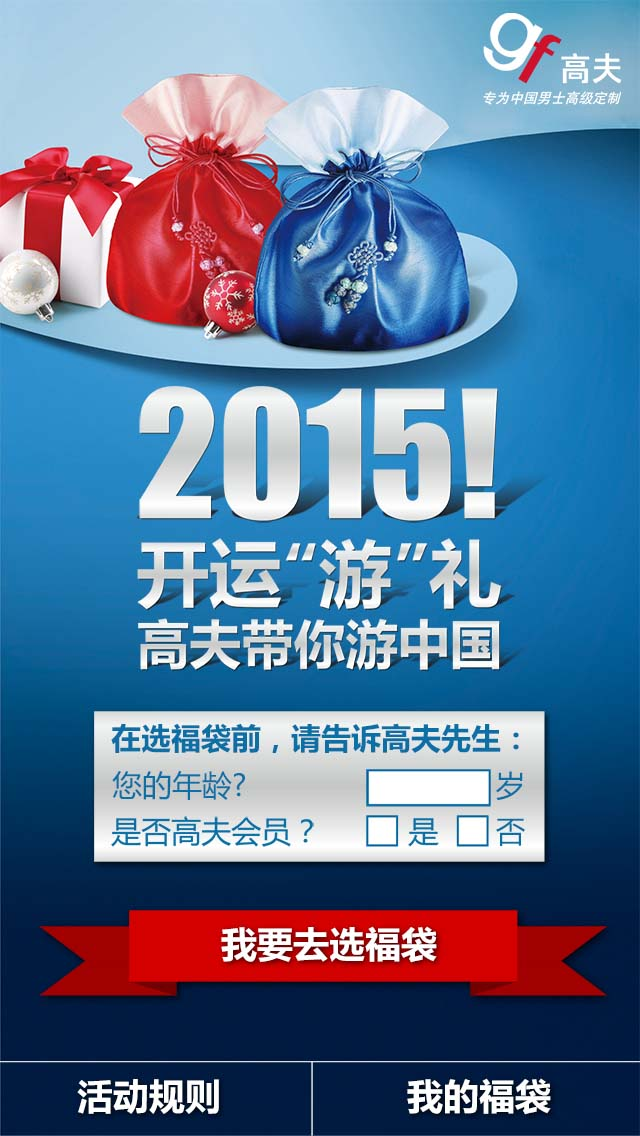
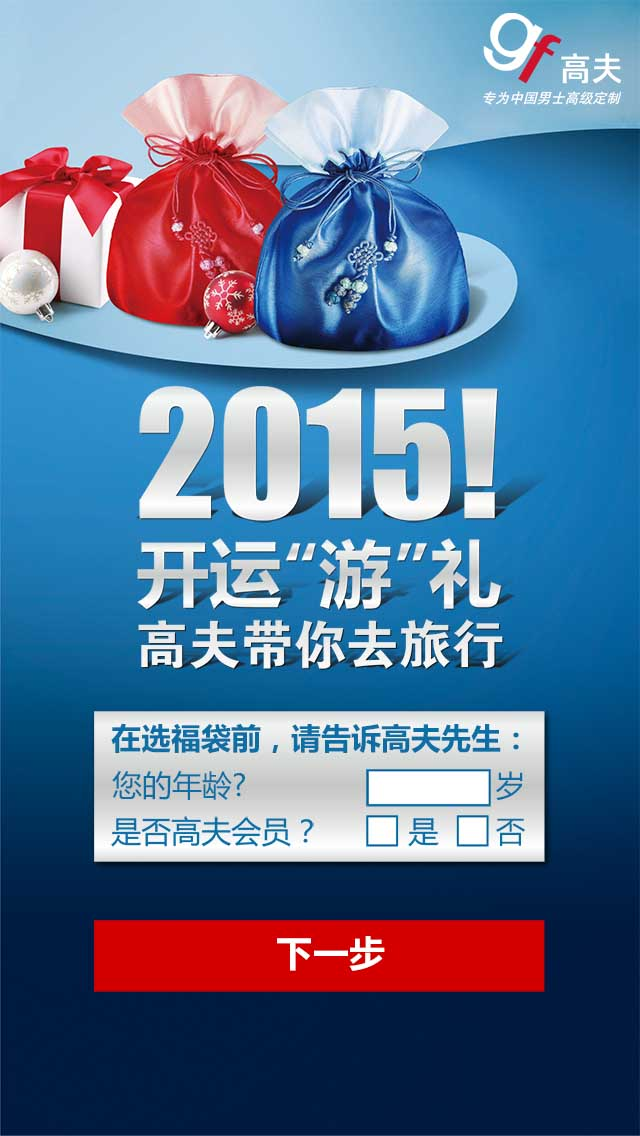
add new page assets

diff --git a/public/app.js b/public/app.js
@@ -100,11 +100,7 @@
 
 		em.registerStage(this.stage, this.events);
 		
-		if (game.params.refers > 0) {
-			this.displayPage4();
-		} else {
-			this.displayPage1();
-		}
+		this.displayPage0();
 	};
 
 	game.update = function(timeInfo) {
@@ -122,31 +118,44 @@
 		}
 	}
 
-	game.displayPage1 = function() {	
-		if(this.startPage == null) {
-			this.startPage = buildBackground("startPage", "page1");
+	game.displayPage0 = function() {	
+		if(this.initPage == null) {
+			this.initPage = buildBackground("initPage", "page0");
 
-			var playBtn = new Q.Button({id:"playBtn", image: ns.R.getImage("button")});
-			playBtn.setUpState({rect:[0,0,390,79]});
-			playBtn.width= 390;
-			playBtn.height = 79;
-			playBtn.scaleX = this.startPage.scaleX;
-			playBtn.scaleY = this.startPage.scaleY;
-			playBtn.x = this.width * 0.2;
-			playBtn.y = this.height * 0.8;
-			playBtn.on(game.EVENTS.TAP, function(e) {
-				$("#ageInput").hide();
-				game.displayPage2();
+			var chooseBtn = new Q.Button({id:"chooseBtn", image: ns.R.getImage("button")});
+			chooseBtn.setUpState({rect:[0,0,450,79]});
+			chooseBtn.width= 450;
+			chooseBtn.height = 79;
+			chooseBtn.scaleX = this.initPage.scaleX;
+			chooseBtn.scaleY = this.initPage.scaleY;
+			chooseBtn.x = this.width * 0.145;
+			chooseBtn.y = this.height * 0.658;
+			chooseBtn.on(game.EVENTS.TAP, function(e) {
+				game.displayPage1();
 			});
 
-			this.playBtn = playBtn;
+			this.chooseBtn = chooseBtn;
+
+			var exchangeBtn = new Q.Button({id:"exchangeBtn", image: ns.R.getImage("button")});
+			exchangeBtn.setUpState({rect:[0,0,450,79]});
+			exchangeBtn.width= 450;
+			exchangeBtn.height = 79;
+			exchangeBtn.scaleX = this.initPage.scaleX;
+			exchangeBtn.scaleY = this.initPage.scaleY;
+			exchangeBtn.x = this.width * 0.145;
+			exchangeBtn.y = this.height * 0.734;
+			exchangeBtn.on(game.EVENTS.TAP, function(e) {
+				game.displayPage1();
+			});
+
+			this.exchangeBtn = exchangeBtn;
 
 			var instructionBtn = new Q.Button({id:"instructionBtn", image: ns.R.getImage("button")});
 			instructionBtn.setUpState({rect:[0,0,310,79]});
 			instructionBtn.width= 310;
 			instructionBtn.height = 79;
-			instructionBtn.scaleX = this.startPage.scaleX;
-			instructionBtn.scaleY = this.startPage.scaleY;
+			instructionBtn.scaleX = this.initPage.scaleX;
+			instructionBtn.scaleY = this.initPage.scaleY;
 			instructionBtn.x = this.width * 0;
 			instructionBtn.y = this.height * 0.93;
 			instructionBtn.on(game.EVENTS.TAP, function(e) {
@@ -159,8 +168,8 @@
 			baglistBtn.setUpState({rect:[0,0,310,79]});
 			baglistBtn.width= 310;
 			baglistBtn.height = 79;
-			baglistBtn.scaleX = this.startPage.scaleX;
-			baglistBtn.scaleY = this.startPage.scaleY;
+			baglistBtn.scaleX = this.initPage.scaleX;
+			baglistBtn.scaleY = this.initPage.scaleY;
 			baglistBtn.x = this.width * 0.5;
 			baglistBtn.y = this.height * 0.93;
 			baglistBtn.on(game.EVENTS.TAP, function(e) {
@@ -168,6 +177,36 @@
 			});
 
 			this.baglistBtn = baglistBtn;
+
+		}
+		
+		this.stage.addChild(
+					this.initPage
+					, this.chooseBtn
+					, this.exchangeBtn
+					, this.instructionBtn
+					, this.baglistBtn);
+		this.stage.step();
+	};
+
+	game.displayPage1 = function() {	
+		if(this.startPage == null) {
+			this.startPage = buildBackground("startPage", "page1");
+
+			var playBtn = new Q.Button({id:"playBtn", image: ns.R.getImage("button")});
+			playBtn.setUpState({rect:[0,0,450,79]});
+			playBtn.width= 450;
+			playBtn.height = 79;
+			playBtn.scaleX = this.startPage.scaleX;
+			playBtn.scaleY = this.startPage.scaleY;
+			playBtn.x = this.width * 0.145;
+			playBtn.y = this.height * 0.806;
+			playBtn.on(game.EVENTS.TAP, function(e) {
+				$("#ageInput").hide();
+				game.displayPage2();
+			});
+
+			this.playBtn = playBtn;
 
 			var yesBox = new Q.Button({id:"yesBox", image: ns.R.getImage("checkbox")});
 			yesBox.setUpState({rect:[0,0,66,32]});
@@ -225,8 +264,6 @@
 		this.stage.addChild(
 					this.startPage
 					, this.playBtn
-					, this.instructionBtn
-					, this.baglistBtn
 					, this.yesBox
 					, this.noBox
 					, this.yesBtn

diff --git a/public/app/R.js b/public/app/R.js
@@ -12,6 +12,7 @@
 		{id: "pickBagRed2", width: 66, src: "assets/02_bag_4.png"},
 		{id: "pickedRed", width: 66, src: "assets/03_bag_red.png"},
 		{id: "pickedBlue", width: 66, src: "assets/03_bag_blue.png"},
+		{id: "page0", width: 640, src: "assets/0-01.jpg"},
 		{id: "page1", width: 640, src: "assets/1-01.jpg"},
 		{id: "page2", width: 640, src: "assets/2-01_bg.jpg"},
 		{id: "page3", width: 640, src: "assets/3-01.jpg"},
